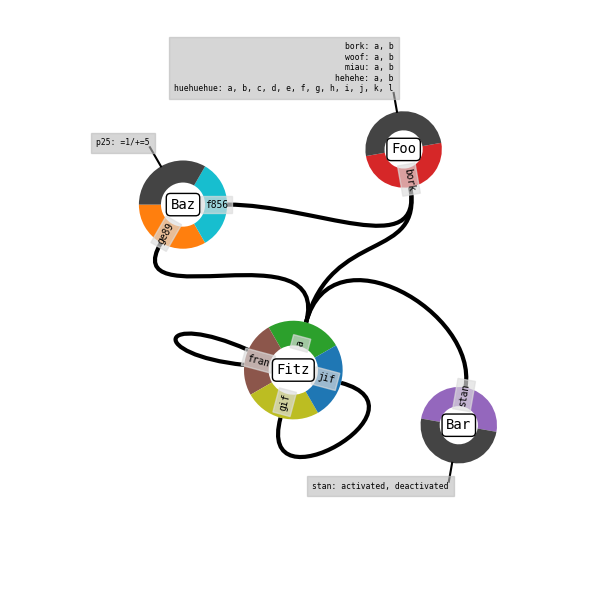
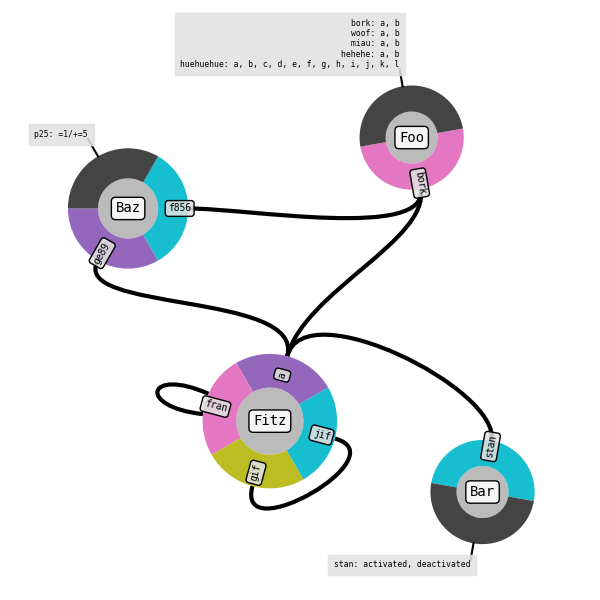
Update contact map docs, example & image

Changed region(s): [[0.03, 0.0, 0.9, 0.96], [0.6, 0.57, 0.69, 0.6]]

diff --git a/models/contact_map/contact_map_demo.py b/models/contact_map/contact_map_demo.py
@@ -6,10 +6,10 @@ from KaSaAn.core import KappaContactMap
 my_contact_map = KappaContactMap('inputs.ka')
 fig, ax = plt.subplots(figsize=(6, 6))
 
-my_contact_map.move_agent_to('Fitz', 5, 5)
-my_contact_map.move_agent_to('Foo', 10, 15)
-my_contact_map.move_agent_to('Bar', 12.5, 2.5)
-my_contact_map.move_agent_to('Baz', 0, 12.5)
+my_contact_map.move_agent_to('Fitz', 10, 10)
+my_contact_map.move_agent_to('Foo', 20, 30)
+my_contact_map.move_agent_to('Bar', 25, 5)
+my_contact_map.move_agent_to('Baz', 0, 25)
 
 my_contact_map.rotate_all_sites_of('Foo', 190)
 my_contact_map.rotate_all_sites_of('Baz', -180)
